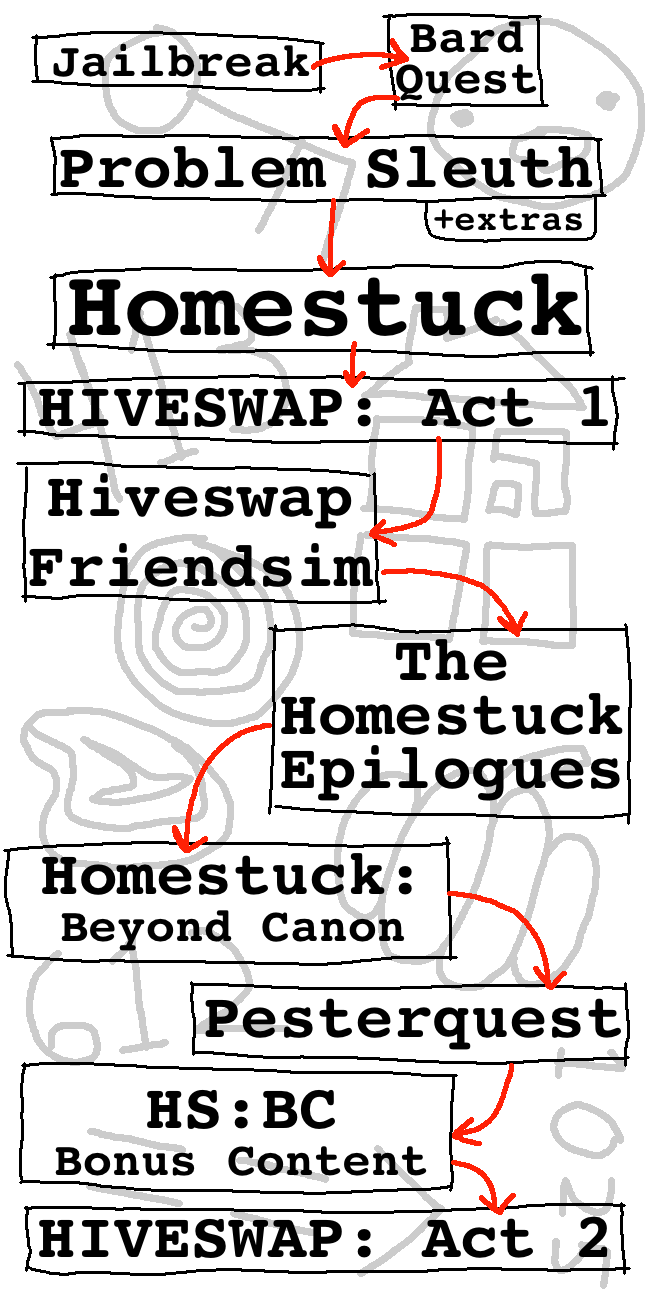
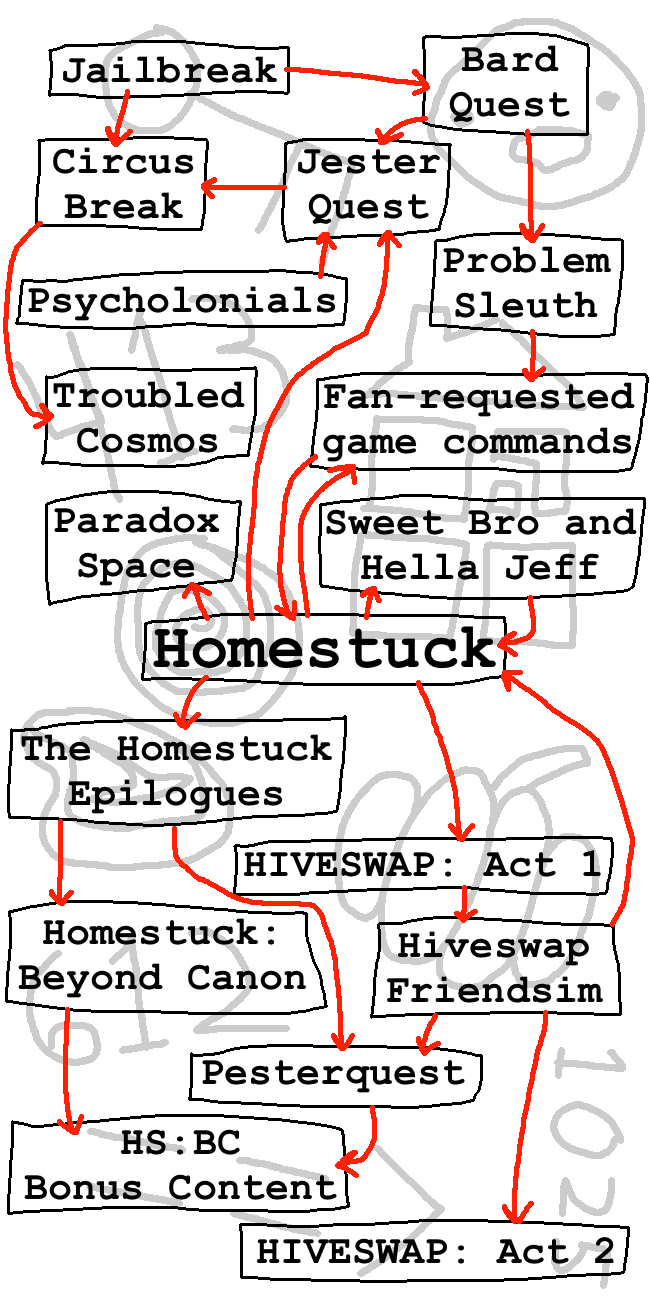
Updated adventure map

Changed region(s): [[0.0, 0.0, 1.0, 1.0]]

diff --git a/hsrewind/map.html b/hsrewind/map.html
@@ -26,48 +26,60 @@
 				<svg version="1.1" xmlns="http://www.w3.org/2000/svg" xmlns:xlink="http://www.w3.org/1999/xlink" viewBox="0 0 650 1300">
 					<image width="650" height="1300" xlink:href="map.png"></image>
 					<a xlink:href="https://www.homestuck.com/jailbreak" target="_blank">
-						<rect x="32" y="30" fill="#fff" opacity="0" width="292" height="64"></rect>
+						<rect x="47" y="43" fill="#fff" opacity="0" width="244" height="53"></rect>
 					</a>
-					<a xlink:href="https://www.homestuck.com/bard-quest" target="_blank">
-						<rect x="386" y="11" fill="#fff" opacity="0" width="158" height="99"></rect>
+					<a xlink:href="https://www.homestuck.com/bardquest" target="_blank">
+						<rect x="423" y="35" fill="#fff" opacity="0" width="169" height="100"></rect>
 					</a>
-					<a xlink:href="https://www.homestuck.com/problem-sleuth" target="_blank">
-						<rect x="51" y="133" fill="#fff" opacity="0" width="554" height="66"></rect>
+					<a xlink:href="https://discord.com/channels/1404836696909938820/1473830043846185124" target="_blank">
+						<rect x="38" y="137" fill="#fff" opacity="0" width="171" height="94"></rect>
 					</a>
-					<a xlink:href="https://www.homestuck.com/extras/list" target="_blank">
-						<rect x="425" y="196" fill="#fff" opacity="0" width="173" height="50"></rect>
+					<a xlink:href="https://www.homestuck.com/jesterquest" target="_blank">
+						<rect x="285" y="141" fill="#fff" opacity="0" width="162" height="91"></rect>
 					</a>
-					<a xlink:href="https://www.homestuck.com/story" target="_blank">
-						<rect x="50" y="261" fill="#fff" opacity="0" width="543" height="97"></rect>
+					<a xlink:href="https://www.homestuck.com/problemsleuth" target="_blank">
+						<rect x="436" y="239" fill="#fff" opacity="0" width="186" height="97"></rect>
+					</a>
+					<a xlink:href="https://www.homestuck.com/psycholonials" target="_blank">
+						<rect x="22" y="272" fill="#fff" opacity="0" width="323" height="56"></rect>
+					</a>
+					<a xlink:href="https://mspaintadventures.itch.io/troubled-cosmos" target="_blank">
+						<rect x="47" y="370" fill="#fff" opacity="0" width="207" height="95"></rect>
+					</a>
+					<a xlink:href="https://www.homestuck.com/unlock#:~:text=FAN%2DREQUESTED%20GAME%20COMMANDS" target="_blank">
+						<rect x="317" y="376" fill="#fff" opacity="0" width="330" height="95"></rect>
+					</a>
+					<a xlink:href="http://hs.hiveswap.com/paradoxspace/" target="_blank">
+						<rect x="48" y="498" fill="#fff" opacity="0" width="191" height="99"></rect>
+					</a>
+					<a xlink:href="https://www.homestuck.com/sweetbroandhellajeff" target="_blank">
+						<rect x="321" y="500" fill="#fff" opacity="0" width="324" height="96"></rect>
+					</a>
+					<a xlink:href="https://www.homestuck.com" target="_blank">
+						<rect x="145" y="616" fill="#fff" opacity="0" width="359" height="69"></rect>
+					</a>
+					<a xlink:href="https://www.homestuck.com/epilogues/prologue" target="_blank">
+						<rect x="11" y="718" fill="#fff" opacity="0" width="328" height="106"></rect>
 					</a>
 					<a xlink:href="https://www.hiveswap.com/hiveswap-act-1" target="_blank">
-						<rect x="19" y="374" fill="#fff" opacity="0" width="604" height="73"></rect>
-					</a>
-					<a xlink:href="https://store.steampowered.com/app/833040/Hiveswap_Friendsim/" target="_blank">
-						<rect x="24" y="461" fill="#fff" opacity="0" width="358" height="145"></rect>
-					</a>
-					<a xlink:href="https://www.homestuck.com/epilogues" target="_blank">
-						<rect x="271" y="625" fill="#fff" opacity="0" width="360" height="193"></rect>
+						<rect x="235" y="836" fill="#fff" opacity="0" width="376" height="61"></rect>
 					</a>
 					<a xlink:href="https://beyondcanon.com/" target="_blank">
-						<rect x="1" y="843" fill="#fff" opacity="0" width="452" height="121"></rect>
+						<rect x="10" y="906" fill="#fff" opacity="0" width="313" height="107"></rect>
+					</a>
+					<a xlink:href="https://store.steampowered.com/app/833040/Hiveswap_Friendsim/" target="_blank">
+						<rect x="377" y="921" fill="#fff" opacity="0" width="245" height="96"></rect>
 					</a>
 					<a xlink:href="https://store.steampowered.com/app/1144030/Pesterquest/" target="_blank">
-						<rect x="189" y="983" fill="#fff" opacity="0" width="440" height="80"></rect>
+						<rect x="191" y="1044" fill="#fff" opacity="0" width="293" height="62"></rect>
 					</a>
 					<a xlink:href="https://beyondcanon.com/bonus" target="_blank">
-						<rect x="21" y="1063" fill="#fff" opacity="0" width="432" height="129"></rect>
+						<rect x="10" y="1117" fill="#fff" opacity="0" width="339" height="95"></rect>
 					</a>
 					<a xlink:href="https://www.hiveswap.com/hiveswap-act-2" target="_blank">
-						<rect x="23" y="1205" fill="#fff" opacity="0" width="603" height="71"></rect>
+						<rect x="240" y="1220" fill="#fff" opacity="0" width="388" height="62"></rect>
 					</a>
 				</svg>
-				<p>
-					This is a recommended order based roughly on release dates.
-					<br>
-					Please refer to the <a href="log">log</a> for a more
-					detailed order.
-				</p>
 			</div>
 			<footer>
 				<h5>
